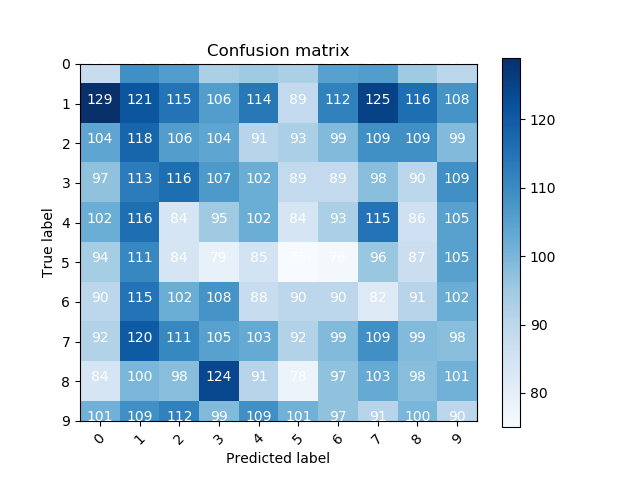
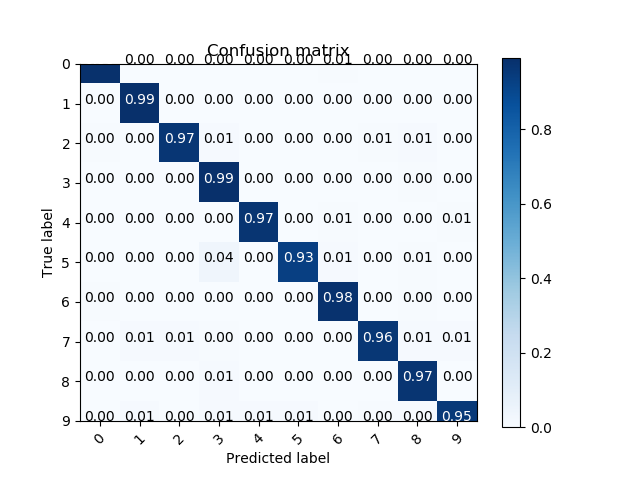
final version

diff --git a/main.py b/main.py
@@ -235,7 +235,7 @@ def test_with_image_output(model, device, test_loader):
 
 # The following code is selected from scikit-learn.org, which take a matrix as the input and plots it
 # Reference: https://deeplizard.com/learn/video/0LhiS6yu2qQ
-def plot_confusion_matrix(cm, classes, normalize=False, title='Confusion matrix', cmap=plt.cm.Blues):
+def plot_confusion_matrix(cm, classes, normalize=True, title='Confusion matrix', cmap=plt.cm.Blues):
     if normalize:
         cm = cm.astype('float') / cm.sum(axis=1)[:, np.newaxis]
         print("Normalized confusion matrix")
@@ -283,7 +283,9 @@ def test_with_confusion_matrix(model, device, test_loader, correct_label):
         100. * correct / test_num))
 
     print(len(all_pred))
+    print(all_pred)
     cm = confusion_matrix(correct_label, all_pred)
+
     label_class = ('0', '1', '2', '3', '4', '5', '6', '7', '8', '9')
     plot_confusion_matrix(cm, label_class)
 
@@ -470,6 +472,7 @@ def main():
 
         # Visualizing the confusion matrix
 
+
         correct_labels = test_dataset.targets
         test_with_confusion_matrix(model, device, test_loader, correct_labels)
 
@@ -479,6 +482,7 @@ def main():
         TSNE_visualize(vectors)
 
         closest_image_visualization(model, device, test_loader)
+
 
         return
 
@@ -507,7 +511,7 @@ def main():
     # training by using SubsetRandomSampler. Right now the train and validation
     # sets are built from the same indices - this is bad! Change it so that
     # the training and validation sets are disjoint and have the correct relative sizes.
-    ratio = 13.6 / 16.0
+    ratio = 8.0 / 16.0
     trainset_size = np.round(ratio * dataset_size)
     train_indices = np.random.choice(dataset_size, int(trainset_size), replace=False)
     entire_set = range(dataset_size)
@@ -552,7 +556,6 @@ def main():
 
     if args.save_model:
         torch.save(model.state_dict(), "mnist_model.pt")
-
 
 if __name__ == '__main__':
     main()
